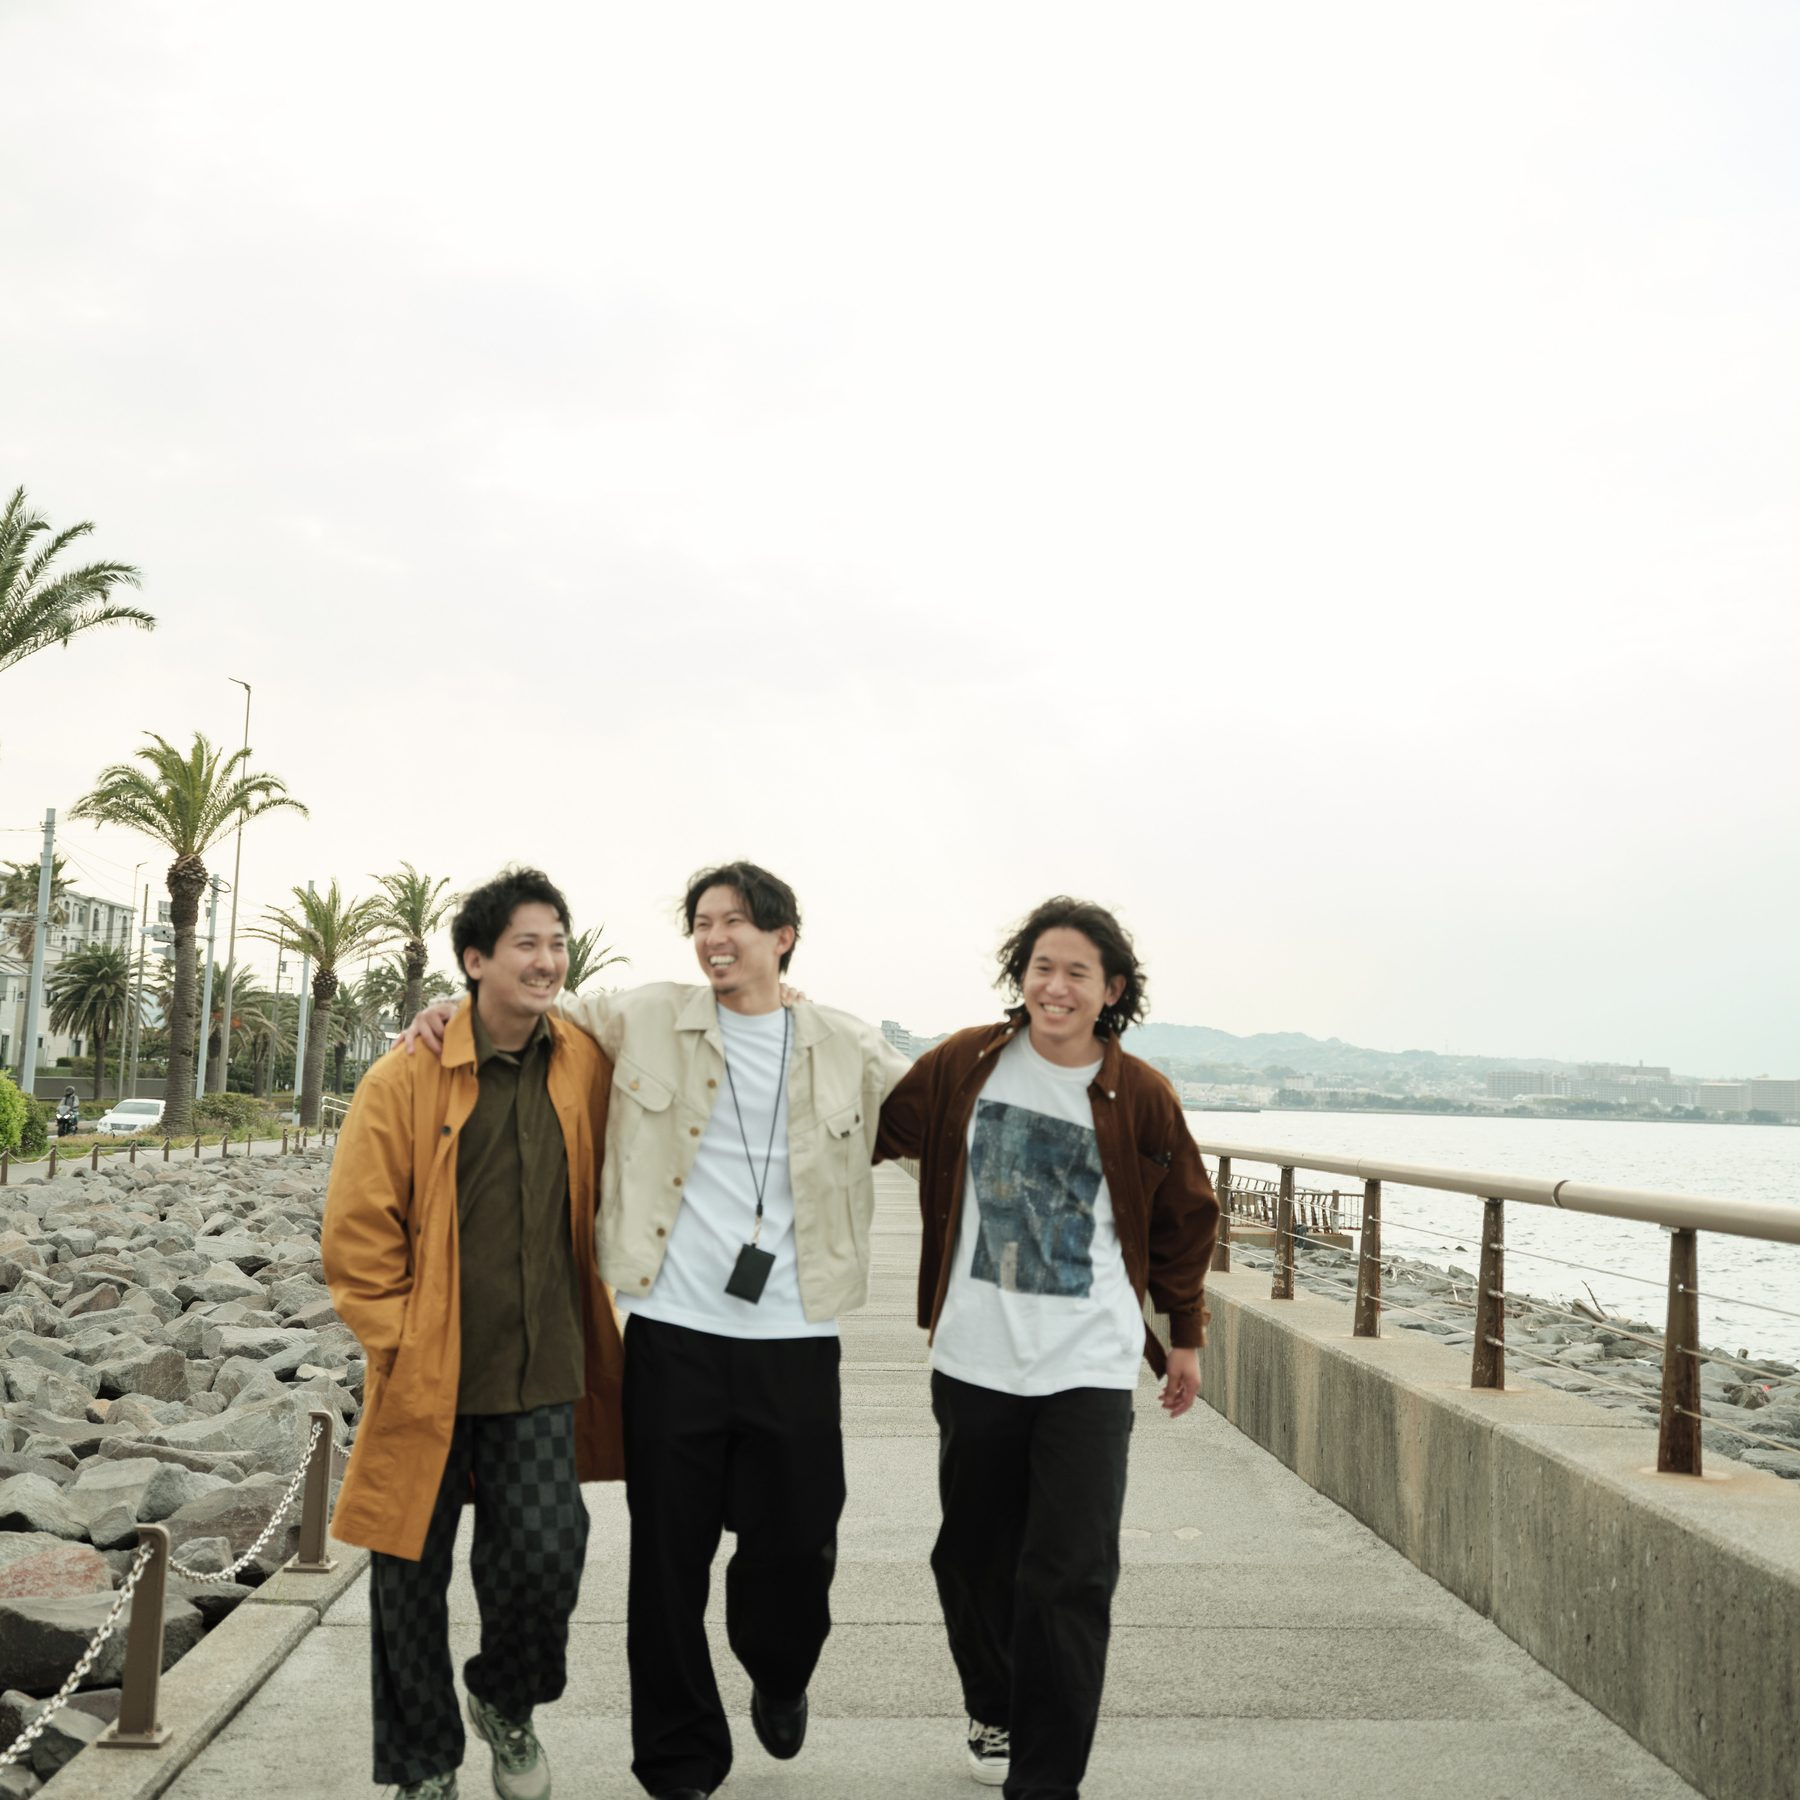
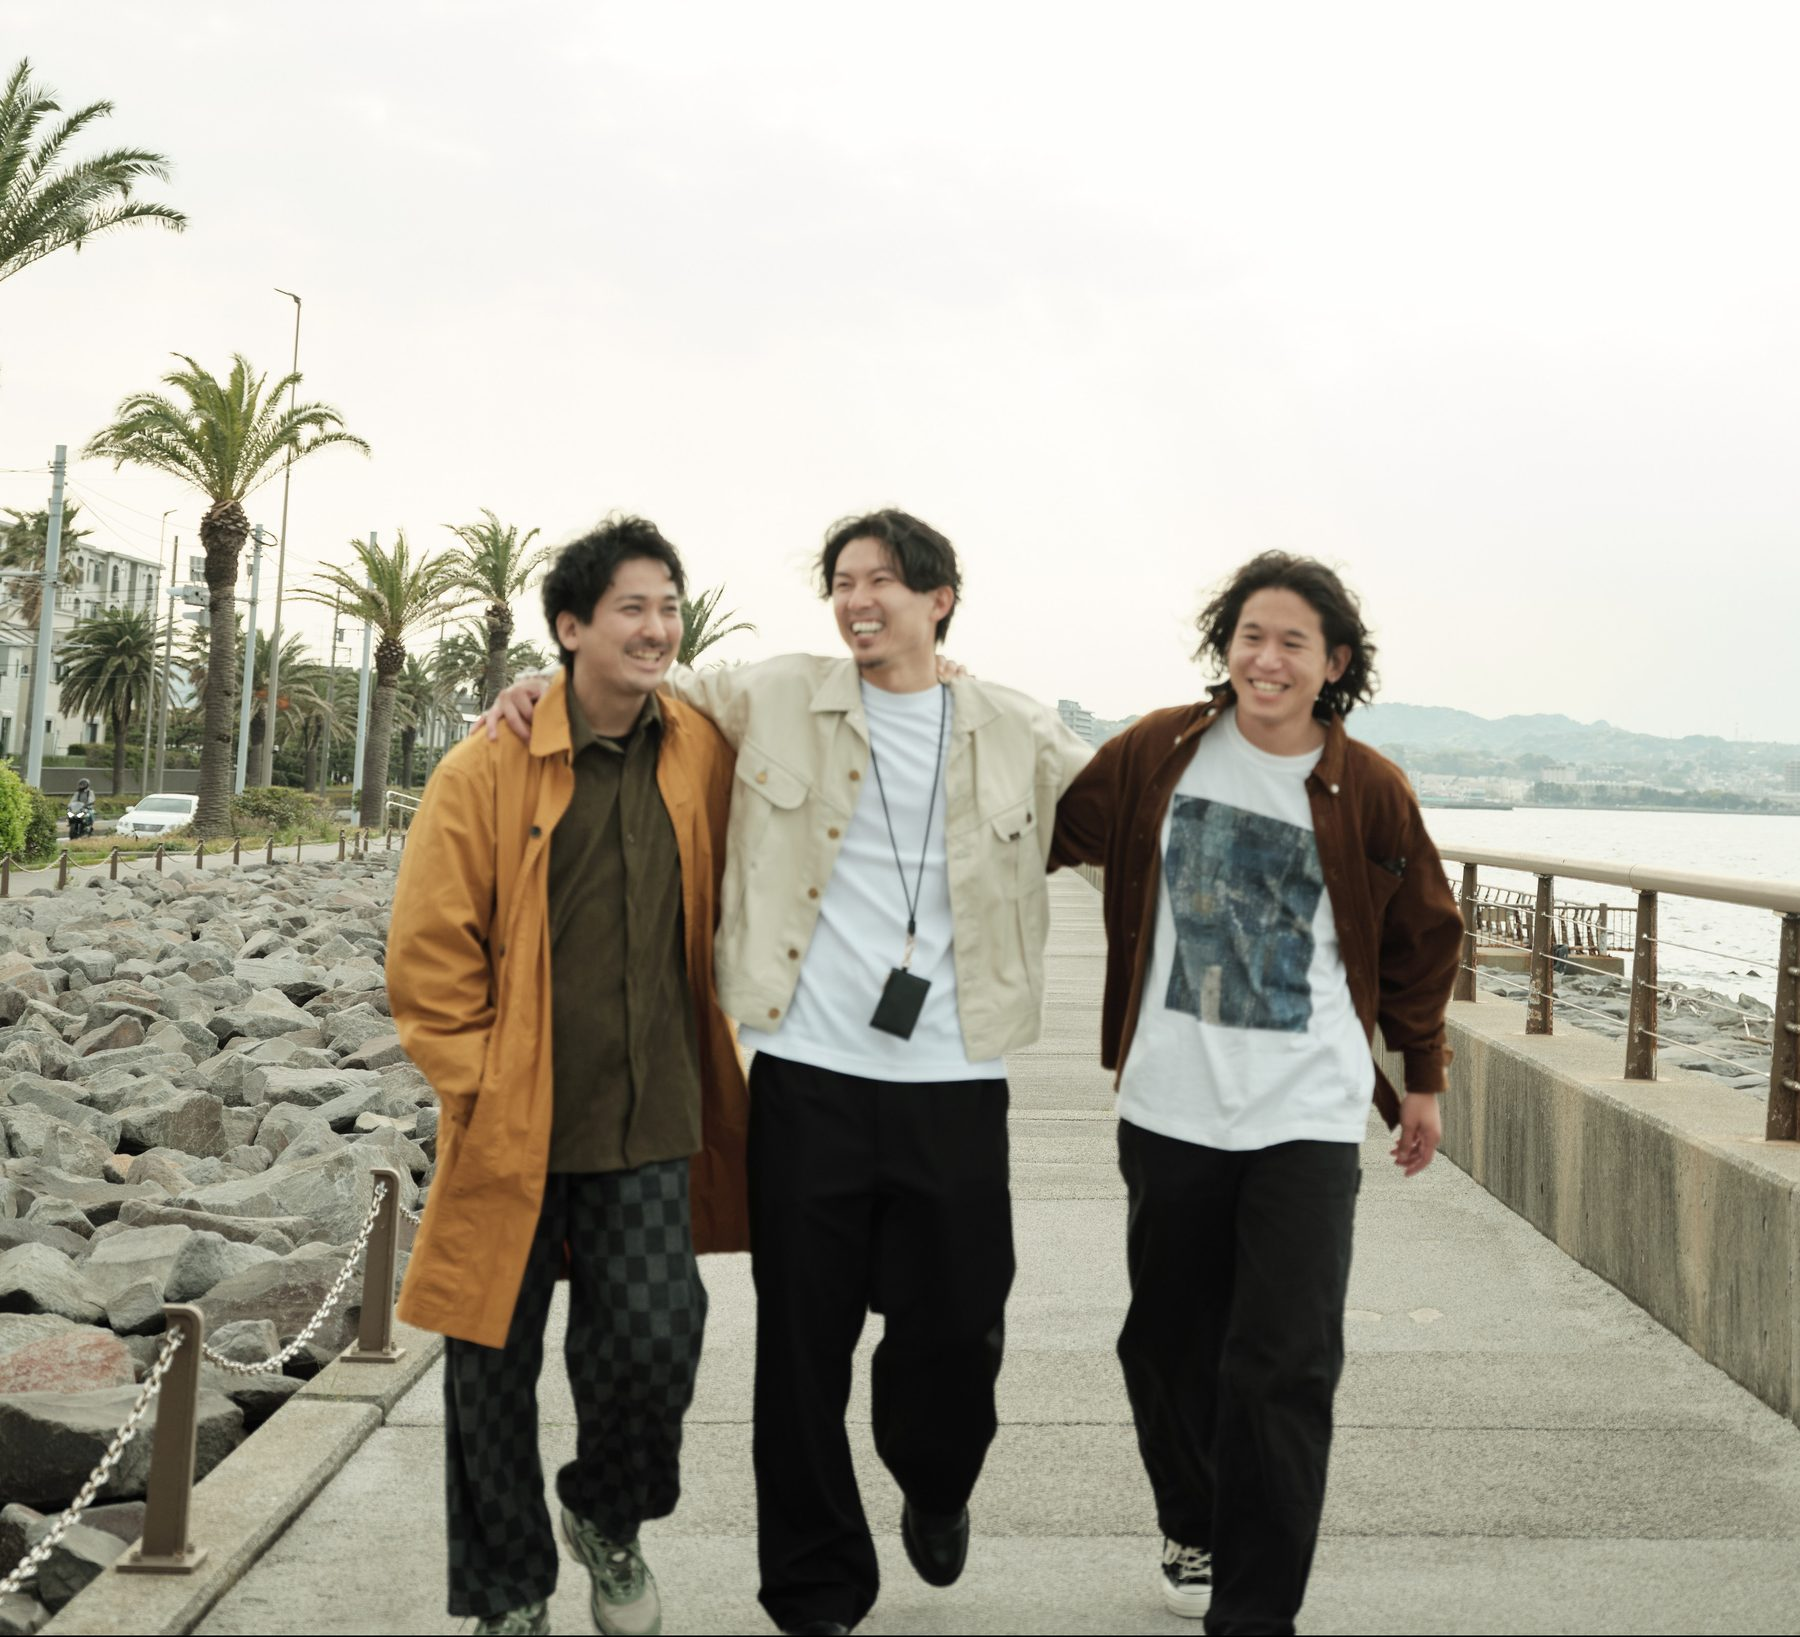
30代の生き方LP v2：Figma案Cに合わせて組みを直し、ヘッダーを固定
- 冒頭の写真はFigmaと同じ切り出しを元画像から高精細に（1800px・314KB）
- スマホの写真の裁ち落とし、問いの書体、余白、運営表記の位置をFigmaに合わせた
- ヘッダーを画面上部に固定し、スクロール後は下に罫

diff --git a/event-30s-v2-260929/index.html b/event-30s-v2-260929/index.html
@@ -92,8 +92,9 @@ img { display: block; max-width: 100%; }
 .rule-top { border-top: 1px solid var(--line); }
 
 /* ---- ヘッダー ---- */
-.hd { background: #fff; }
-.hd .in { display: flex; align-items: center; gap: 24px; padding-block: 18px; }
+.hd { position: sticky; top: 0; z-index: 60; background: #fff; transition: box-shadow 0.2s; }
+.hd.is-stuck { box-shadow: 0 1px 0 var(--line); }
+.hd .in { display: flex; align-items: center; gap: 24px; height: 62px; }
 .hd-logo img { width: 65px; height: auto; }
 .hd-label { font-size: 11px; flex: 1; }
 .hd-cta { display: none; }
@@ -111,11 +112,12 @@ img { display: block; max-width: 100%; }
 }
 .mc .num { font-weight: 500; }
 .lead { font-size: 14px; }
-.date { display: flex; align-items: flex-end; gap: 20px; }
-.date-y { font-family: var(--en); font-weight: 500; font-size: 12px; line-height: 1.2; }
-.date-d { font-family: var(--en); font-weight: 500; font-size: 52px; line-height: 1.2; letter-spacing: 0.02em; color: var(--ink); }
-.date-w { font-size: 12px; font-weight: 700; letter-spacing: 0.06em; }
-.date-t { font-family: var(--en); font-weight: 500; font-size: 20px; line-height: 1.2; color: var(--ink); padding-bottom: 8px; display: block; }
+.mc .num { line-height: 1; }
+.date { display: flex; align-items: center; gap: 20px; }
+.date-y { display: block; font-family: var(--en); font-weight: 500; font-size: 12px; line-height: 14px; }
+.date-d { display: block; font-family: var(--en); font-weight: 500; font-size: 52px; line-height: 62px; letter-spacing: 0.02em; color: var(--ink); }
+.date-w { display: block; font-size: 12px; font-weight: 700; letter-spacing: 0.06em; line-height: 23px; }
+.date-t { display: block; margin-top: 4px; font-family: var(--en); font-weight: 500; font-size: 20px; line-height: 24px; color: var(--ink); }
 .cond { font-size: 12px; font-weight: 700; letter-spacing: 0.06em; }
 .cond .sep { font-weight: 400; margin-inline: 0.6em; }
 .note { font-size: 11px; color: var(--ink-72); }
@@ -123,21 +125,24 @@ img { display: block; max-width: 100%; }
 
 /* ---- こんな気持ちの方へ ---- */
 .feel { padding-bottom: 40px; }
-.feel-photo img { width: 100%; aspect-ratio: 3 / 2; object-fit: cover; }
-.feel-photo figcaption { font-size: 10px; color: var(--ink-72); padding: 12px 24px 0; }
+.feel .in { padding-inline: 0; }
+.feel-photo img { width: 100%; height: 260px; object-fit: cover; }
+.feel-photo figcaption { font-size: 10px; line-height: 2; color: var(--ink-72); padding: 12px 24px 0; }
 .feel-text { padding: 18px 24px 0; }
 .feel-text > * + * { margin-top: 18px; }
+.feel-text > .body + .body { margin-top: 27px; }
 .feel .h2 { font-size: 26px; }
 
 /* ---- 当日の問い（青い帯） ---- */
 .q { background: var(--brand); color: #fff; padding-block: 40px; }
 .q .in > * + * { margin-top: 22px; }
+.q-left > * + * { margin-top: 22px; }
 .q .label { color: #fff; }
 .q-text {
-  font-family: var(--mincho);
-  font-weight: 700;
+  font-family: var(--body);
+  font-weight: 500;
   font-size: 24px;
-  line-height: 1.55;
+  line-height: 37px;
   letter-spacing: 0.04em;
 }
 
@@ -188,7 +193,8 @@ img { display: block; max-width: 100%; }
 .about .h2 { font-size: 26px; }
 .about-photo { margin-top: 22px; }
 .about-photo img { width: 100%; aspect-ratio: 4 / 3; object-fit: cover; border: 1px solid var(--line); }
-.about-photo figcaption { margin-top: 22px; }
+.about-photo figcaption, .about-photo .sp-only { margin-top: 22px; }
+.pc-only { display: none; }
 
 /* ---- 開催概要 ---- */
 .overview { padding-block: 40px; }
@@ -212,7 +218,7 @@ img { display: block; max-width: 100%; }
 .apply-head > * + * { margin-top: 22px; }
 .apply-box { margin-top: 22px; }
 .apply-box > * + * { margin-top: 22px; }
-.apply-date { font-family: var(--en); font-weight: 500; font-size: 21px; color: var(--ink); line-height: 1.5; }
+.apply-date { font-family: var(--en); font-weight: 500; font-size: 21px; color: var(--ink); line-height: 1.95; }
 .apply-date .ja { font-family: var(--body); font-weight: 700; }
 .apply-steps { font-size: 13px; }
 .apply-note { display: grid; grid-template-columns: 70px 1fr; column-gap: 16px; border-top: 1px solid var(--line); padding-top: 14px; }
@@ -226,6 +232,7 @@ img { display: block; max-width: 100%; }
 .ft-logos .poolo { width: 64px; }
 .ft-logos .tabippo { width: 78px; }
 .ft p { font-size: 11px; color: var(--ink-72); }
+.ft-texts p + p { margin-top: 16px; }
 
 /* ---- 追従ボタン（画面下に固定） ---- */
 .fa {
@@ -254,7 +261,11 @@ img { display: block; max-width: 100%; }
   .cols { display: grid; grid-template-columns: 360px 1fr; column-gap: 80px; }
   .cols-wide { display: grid; grid-template-columns: 560px 1fr; column-gap: 80px; align-items: center; }
 
-  .hd .in { padding-block: 18px; }
+  .hd .in { height: 75px; }
+  .pc-only { display: block; }
+  .sp-only { display: none; }
+  .feel .in { padding-inline: 0; }
+  .feel-photo img { height: auto; aspect-ratio: 3 / 2; }
   .hd-cta { display: inline-block; font-size: 12.5px; padding: 9px 20px; }
 
   /* 冒頭：左に文、右に写真（右端まで裁ち落とし、左に青い罫） */
@@ -265,25 +276,26 @@ img { display: block; max-width: 100%; }
     padding: 88px 0 88px max(24px, calc((100vw - 1016px) / 2));
   }
   .fv-copy > * + * { margin-top: 24px; }
+  .fv-copy > .date { margin-top: 56px; }
   .mc { font-size: 56px; }
   .lead { font-size: 16px; }
   .fv-copy .btn { width: 376px; }
   .fv-photo { display: block; flex: 1; margin-left: 80px; border-left: 8px solid var(--brand); }
-  .fv-photo img { width: 100%; height: 100%; object-fit: cover; object-position: 40% 75%; }
+  .fv-photo img { width: 100%; height: 100%; object-fit: cover; }
 
   .feel { padding: 24px 0 96px; }
   .feel .in { display: grid; grid-template-columns: 480px 1fr; column-gap: 80px; align-items: center; }
-  .feel-photo img { aspect-ratio: 3 / 2; }
   .feel-photo figcaption { padding: 12px 0 0; }
   .feel-text { padding: 0; }
   .feel-text > * + * { margin-top: 24px; }
   .feel .h2 { font-size: 34px; }
+  .feel .body { max-width: 342px; }
 
   .q { padding-block: 80px; }
   .q .in { display: grid; grid-template-columns: 640px 1fr; column-gap: 80px; align-items: end; }
   .q .in > * + * { margin-top: 0; }
   .q-left > * + * { margin-top: 22px; }
-  .q-text { font-size: 34px; }
+  .q-text { font-size: 34px; line-height: 1.55; }
 
   .flow { padding-block: 96px; }
   .flow .h2 { font-size: 36px; }
@@ -318,6 +330,8 @@ img { display: block; max-width: 100%; }
   .overview .in { display: grid; grid-template-columns: 360px 1fr; column-gap: 80px; }
   .ov { margin-top: 0; }
   .ov-row { grid-template-columns: 70px 1fr; }
+  .ov-notes { margin-top: 16px; }
+  .ov-notes p + p { margin-top: 16px; }
 
   .faq { padding-block: 96px; }
   .faq-list { margin-top: 40px; display: grid; grid-template-columns: repeat(2, 1fr); column-gap: 40px; row-gap: 28px; }
@@ -327,6 +341,7 @@ img { display: block; max-width: 100%; }
   .apply .in { display: grid; grid-template-columns: 560px 1fr; column-gap: 80px; align-items: center; }
   .apply .h2 { font-size: 35px; }
   .apply-box { margin-top: 0; }
+  .apply-box > * + * { margin-top: 18px; }
 
   .ft { padding: 48px 0 56px; }
   .ft .in { display: flex; justify-content: space-between; align-items: center; }
@@ -377,7 +392,7 @@ height="0" width="0" style="display:none;visibility:hidden"></iframe></noscript>
     <h1 class="mc"><span class="num">30</span>代の生き方を<br><span class="nb">問い直す、<span class="num">90</span>分。</span></h1>
     <p class="lead">仕事は頑張ってきた。<br>でも、<span class="nb">このままの延長でいいんだっけ。</span><br>誰にも言えていなかった違和感を、<br>同じ<span class="nb">30代と話しながら、</span><br><span class="nb">自分のことばにする90分です。</span></p>
     <div class="date">
-      <div><span class="date-y">2026</span><br><span class="date-d">9.29</span></div>
+      <div><span class="date-y">2026</span><span class="date-d">9.29</span></div>
       <div><span class="date-w">火曜日</span><span class="date-t">20:00–21:30</span></div>
     </div>
     <p class="cond">参加無料<span class="sep">／</span>Zoom開催<span class="sep">／</span>先着10名</p>
@@ -487,11 +502,12 @@ height="0" width="0" style="display:none;visibility:hidden"></iframe></noscript>
       <p class="body">POOLO（ポーロ）は、旅を入り口に、自分の生き方・働き方を問い直す大人の学び場です。<span class="nb">2019年に開校し、</span>これまでに<span class="nb">1,200名以上が</span>参加しています。</p>
       <p class="body">POOLOでは、「旅」で日常の外に出て視点を揺さぶり、「問い」で自分の言葉に置き換え、仲間に差し出して「共創」します。旅先で出会った、うまく言えない違和感が、問いの入り口になります。8ヶ月のオンラインプログラム<span class="nb">「POOLO LIFE」は、</span>この行き来をくり返す場です。</p>
       <p class="body">この90分は、そのうち「問い」のところを体験する時間です。</p>
-      <p class="caption">運営：株式会社TABIPPO／株式会社CODOLI<br>Peatix Community Award 2025 受賞</p>
+      <p class="caption pc-only">運営：株式会社TABIPPO／株式会社CODOLI<br>Peatix Community Award 2025 受賞</p>
     </div>
     <figure class="about-photo">
       <img src="images/trip_town.jpg" alt="古い町並みを見上げながら歩く5人" loading="lazy">
       <figcaption class="caption">POOLOの旅の一場面</figcaption>
+      <p class="caption sp-only">運営：株式会社TABIPPO／株式会社CODOLI<br>Peatix Community Award 2025 受賞</p>
     </figure>
   </div>
 </section>
@@ -565,6 +581,14 @@ height="0" width="0" style="display:none;visibility:hidden"></iframe></noscript>
 </footer>
 
 <script>
+/* ヘッダー：スクロールしたら下に罫を出す */
+(function () {
+  var hd = document.querySelector('.hd');
+  if (!hd) return;
+  function f() { hd.classList.toggle('is-stuck', window.scrollY > 4); }
+  window.addEventListener('scroll', f, { passive: true });
+  f();
+})();
 /* 追従ボタン：冒頭を過ぎたら出し、お申し込み欄とフッターが見えている間は引っ込める */
 (function () {
   var bar = document.getElementById('floatApply');
